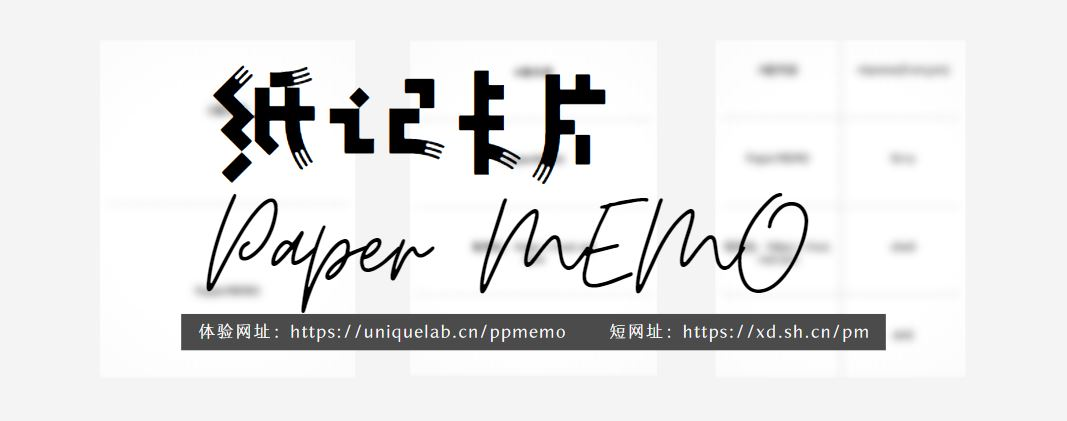
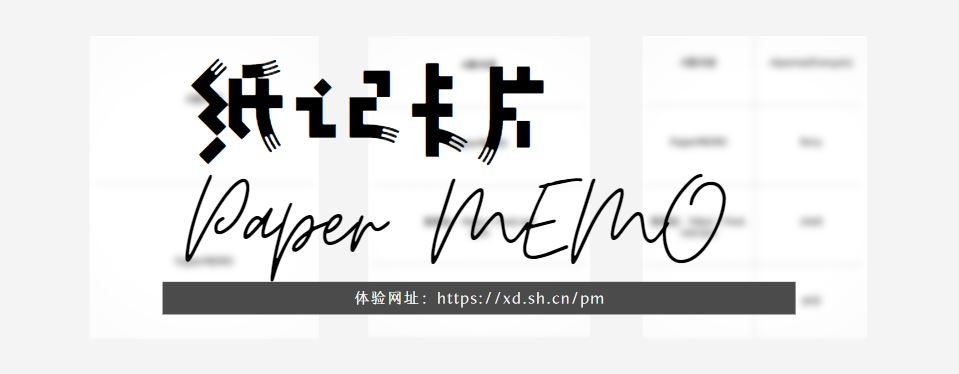
:hammer: 修改了部分界面

diff --git a/src/Components/Dashboard.js b/src/Components/Dashboard.js
@@ -31,20 +31,17 @@ function Copyright() {
         </Link>
       </Typography>
       <Typography variant="body2" color="textSecondary" align="center">
-        <Link color="inherit" href="https://uniquelab.cn/ppmemo">
-          Paper MEMO 纸记卡片 v1.0.2
+        <Link color="inherit" href="https://xd.sh.cn/ppmemo">
+          react 网页应用「纸记卡片 Paper MEMO」 v1.0.3（2020.9）
         </Link>
       </Typography>
       <Typography variant="overline" color="textSecondary" align="center">
         {"Copyright © "}
-        <Link color="inherit" href="https://uniquelab.cn">
-          UNiQUElab.cn
+        <Link color="inherit" href="https://xd.sh.cn/ppmemo">
+          不淡定的实验室 xd.sh.cn
         </Link>
         {" 2016-"}
         {new Date().getFullYear()}{" "}
-        <Link color="inherit" href="http://beian.miit.gov.cn/">
-          沪ICP备14038257号-2
-        </Link>
       </Typography>
     </div>
   );
@@ -171,7 +168,7 @@ export default function Dashboard() {
             className={classes.title}
           >
             {/*这里是标题*/}
-            Paper MEMO
+            纸记卡片 Paper MEMO
           </Typography>
         </Toolbar>
       </AppBar>

diff --git a/src/Components/Ppmemo/Stepbar.js b/src/Components/Ppmemo/Stepbar.js
@@ -16,7 +16,7 @@ export default function Stepbar(props) {
 
   return (
     <React.Fragment>
-      <Title>制作你的卡片集</Title>
+      <Title>制作你的单词卡片集</Title>
       <div className={classes.root}>
         <Stepper activeStep={props.activeStep} alternativeLabel>
           {props.steps.map((label) => (

diff --git a/src/Components/Ppmemo/Ppmemo.js b/src/Components/Ppmemo/Ppmemo.js
@@ -74,8 +74,8 @@ export default function Ppmemo() {
 
   return (
     <React.Fragment>
-      <ScrollToTop />
       <div className={classes.root}>
+        <ScrollToTop />
         <Stepbar activeStep={activeStep} steps={steps} />
         <Grid className={classes.fixedHeight280}>
           {getMainContent(activeStep)}
